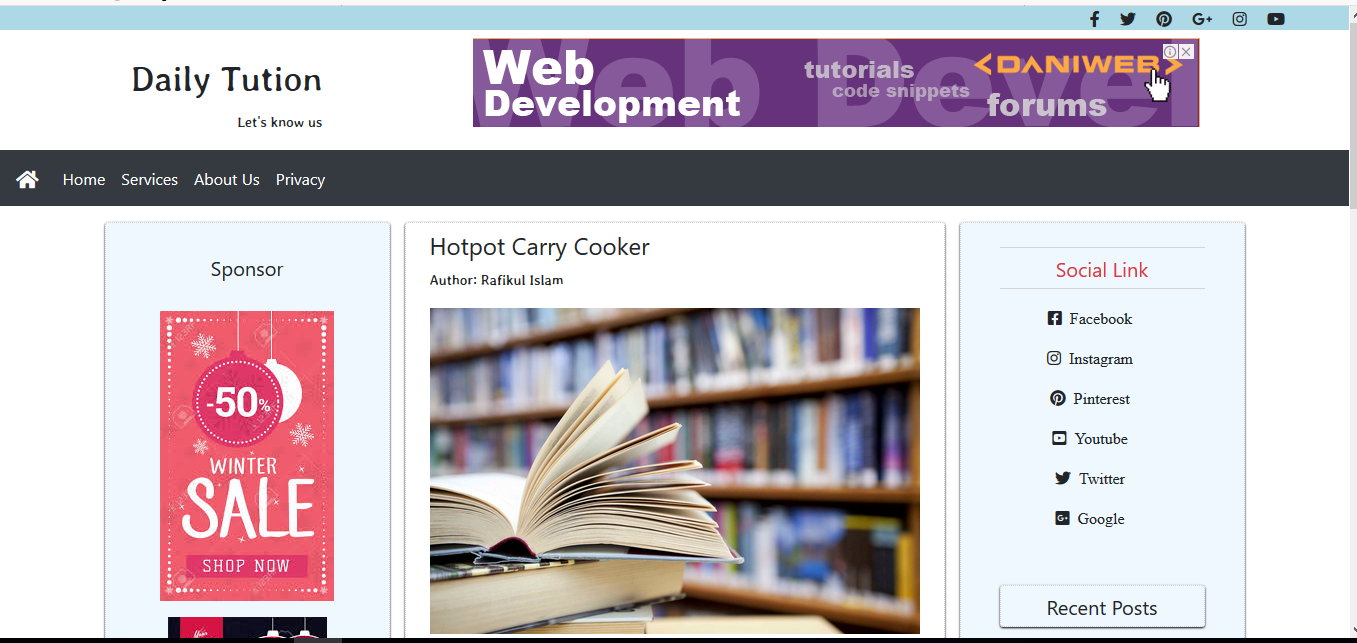
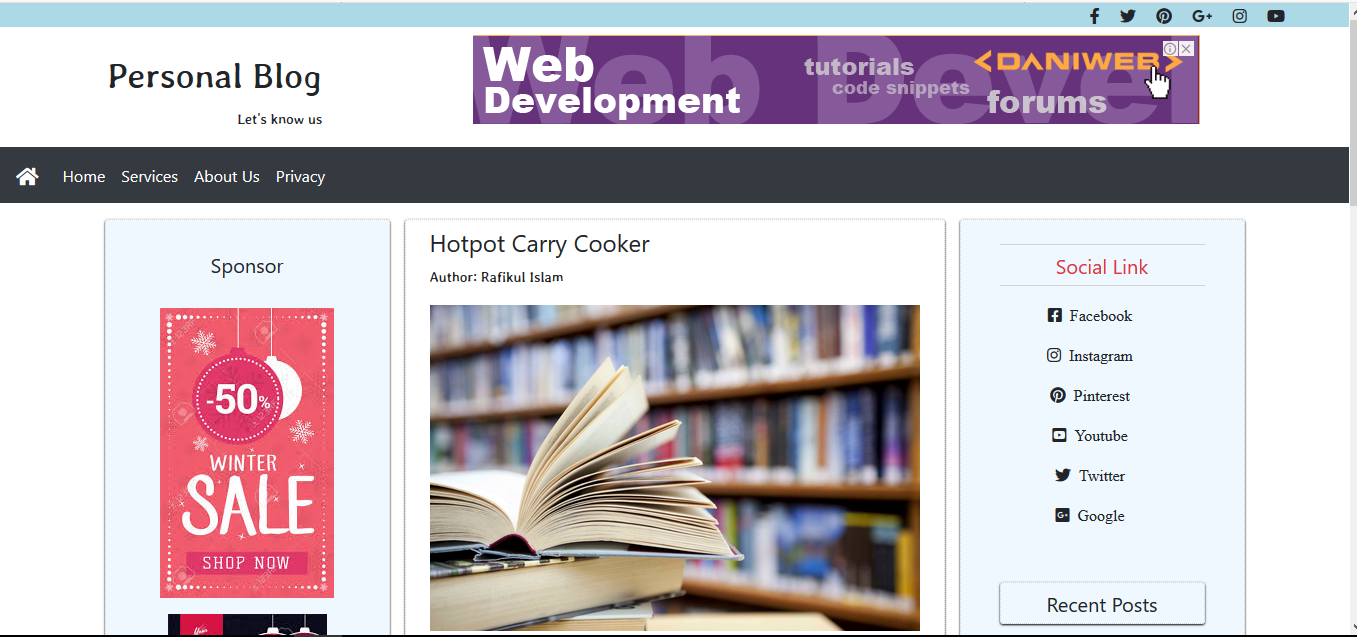
overview uploaded

diff --git a/index.html b/index.html
@@ -27,7 +27,7 @@
     <div class="container-fluid">
         <div class="row">
             <div class="col-md-3 text-right pt-4">
-                <h1>Daily Tution</h1>
+                <h1>Personal Blog</h1>
                 <p>Let's know us</p>
             </div>
             <div class="col-md-1"></div>
